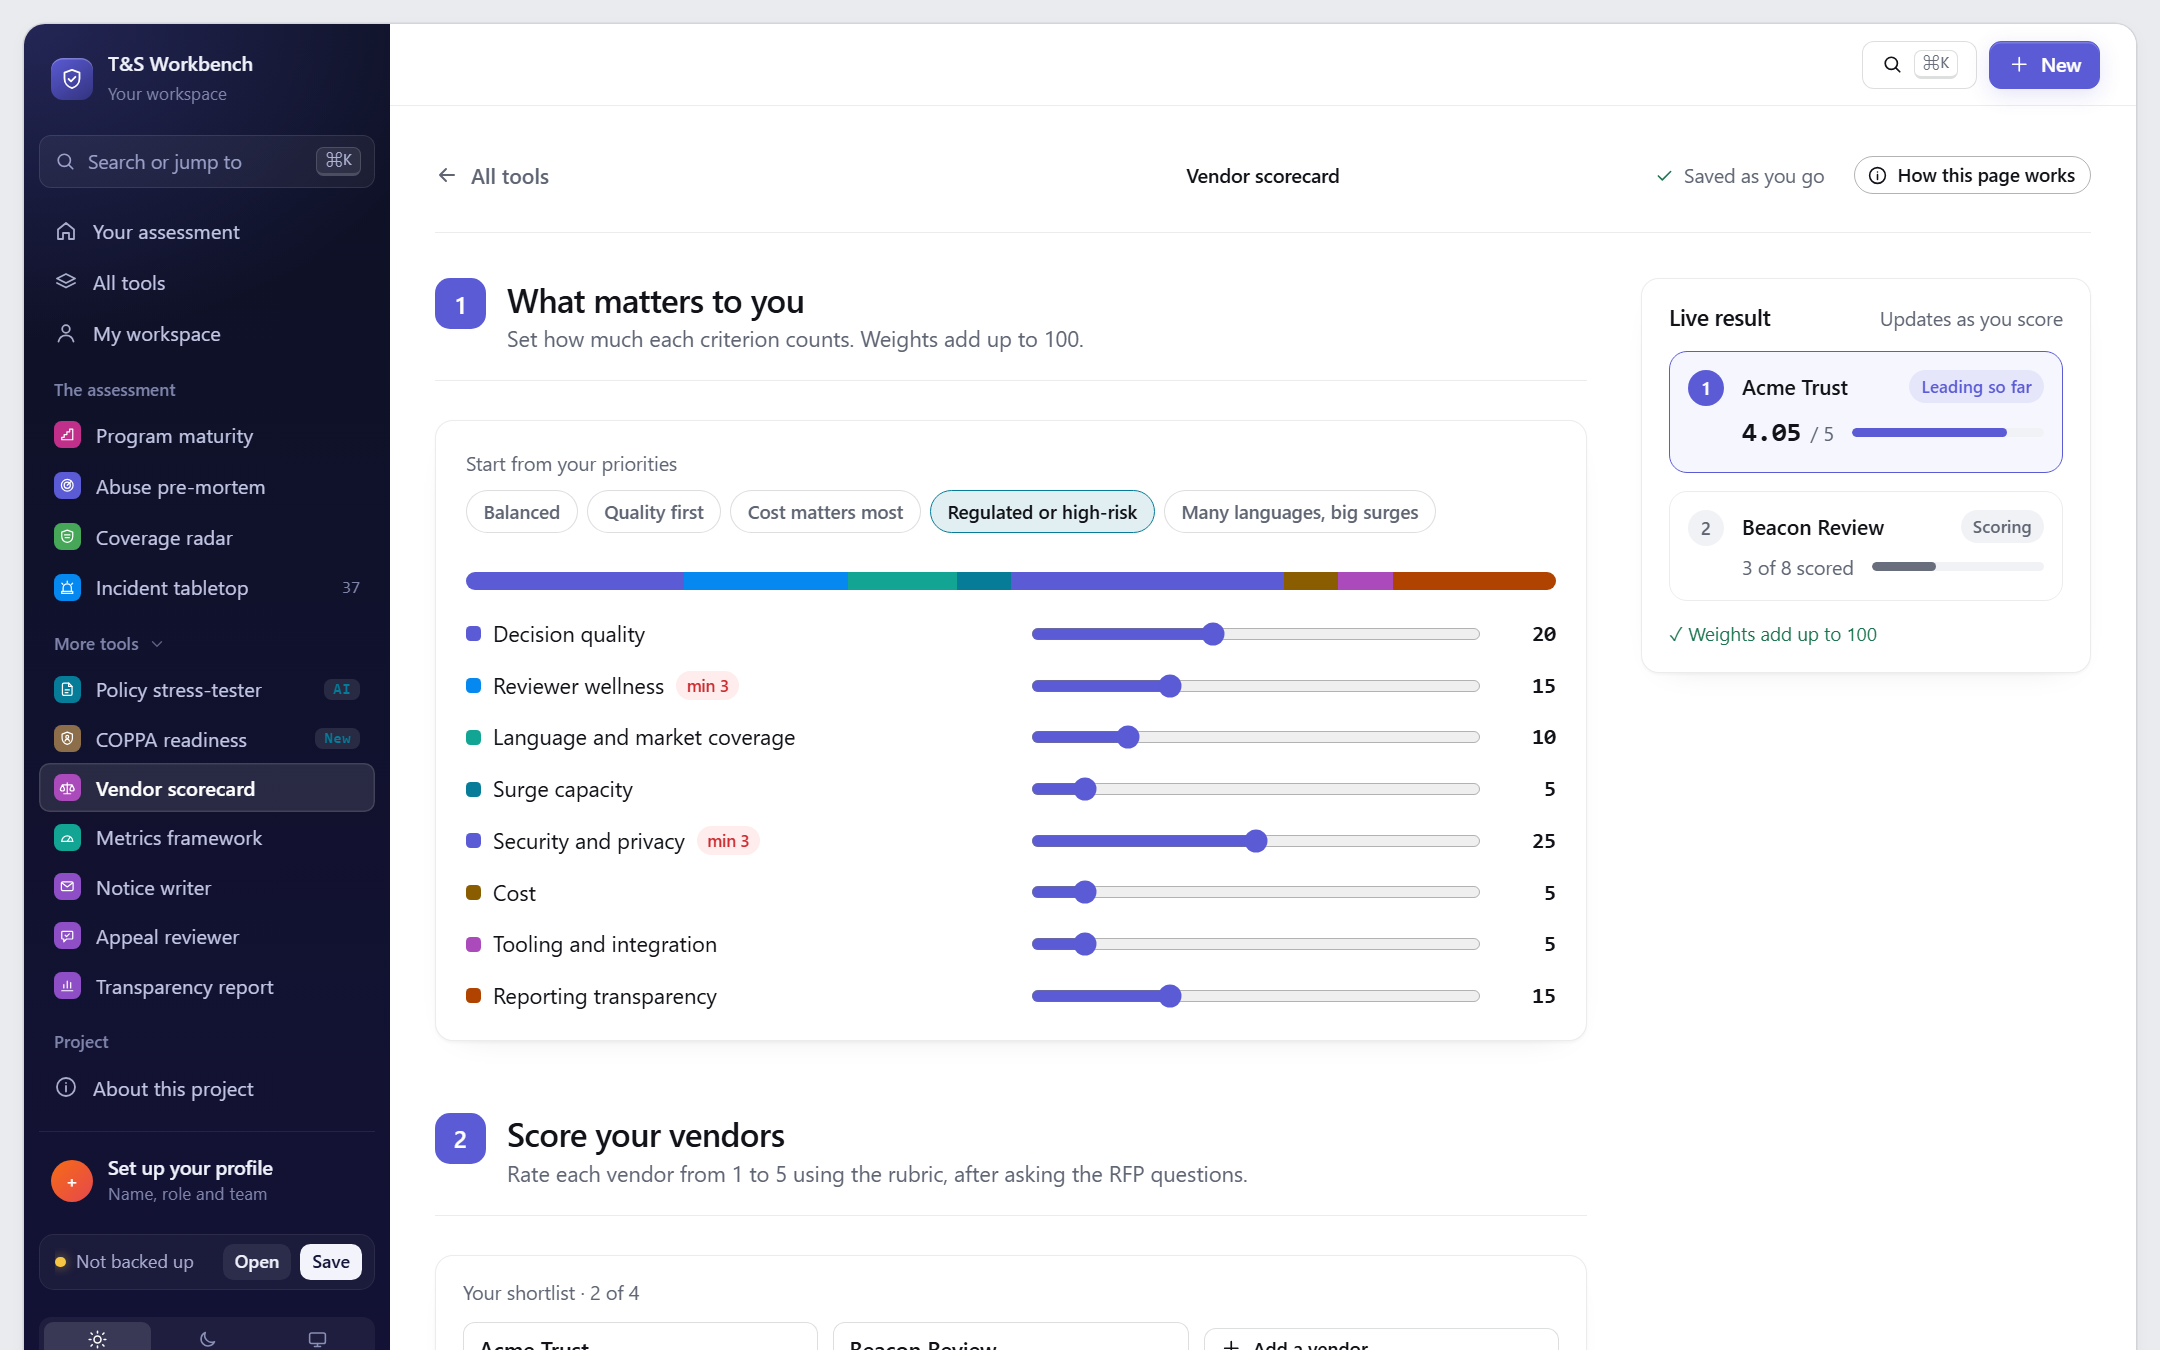
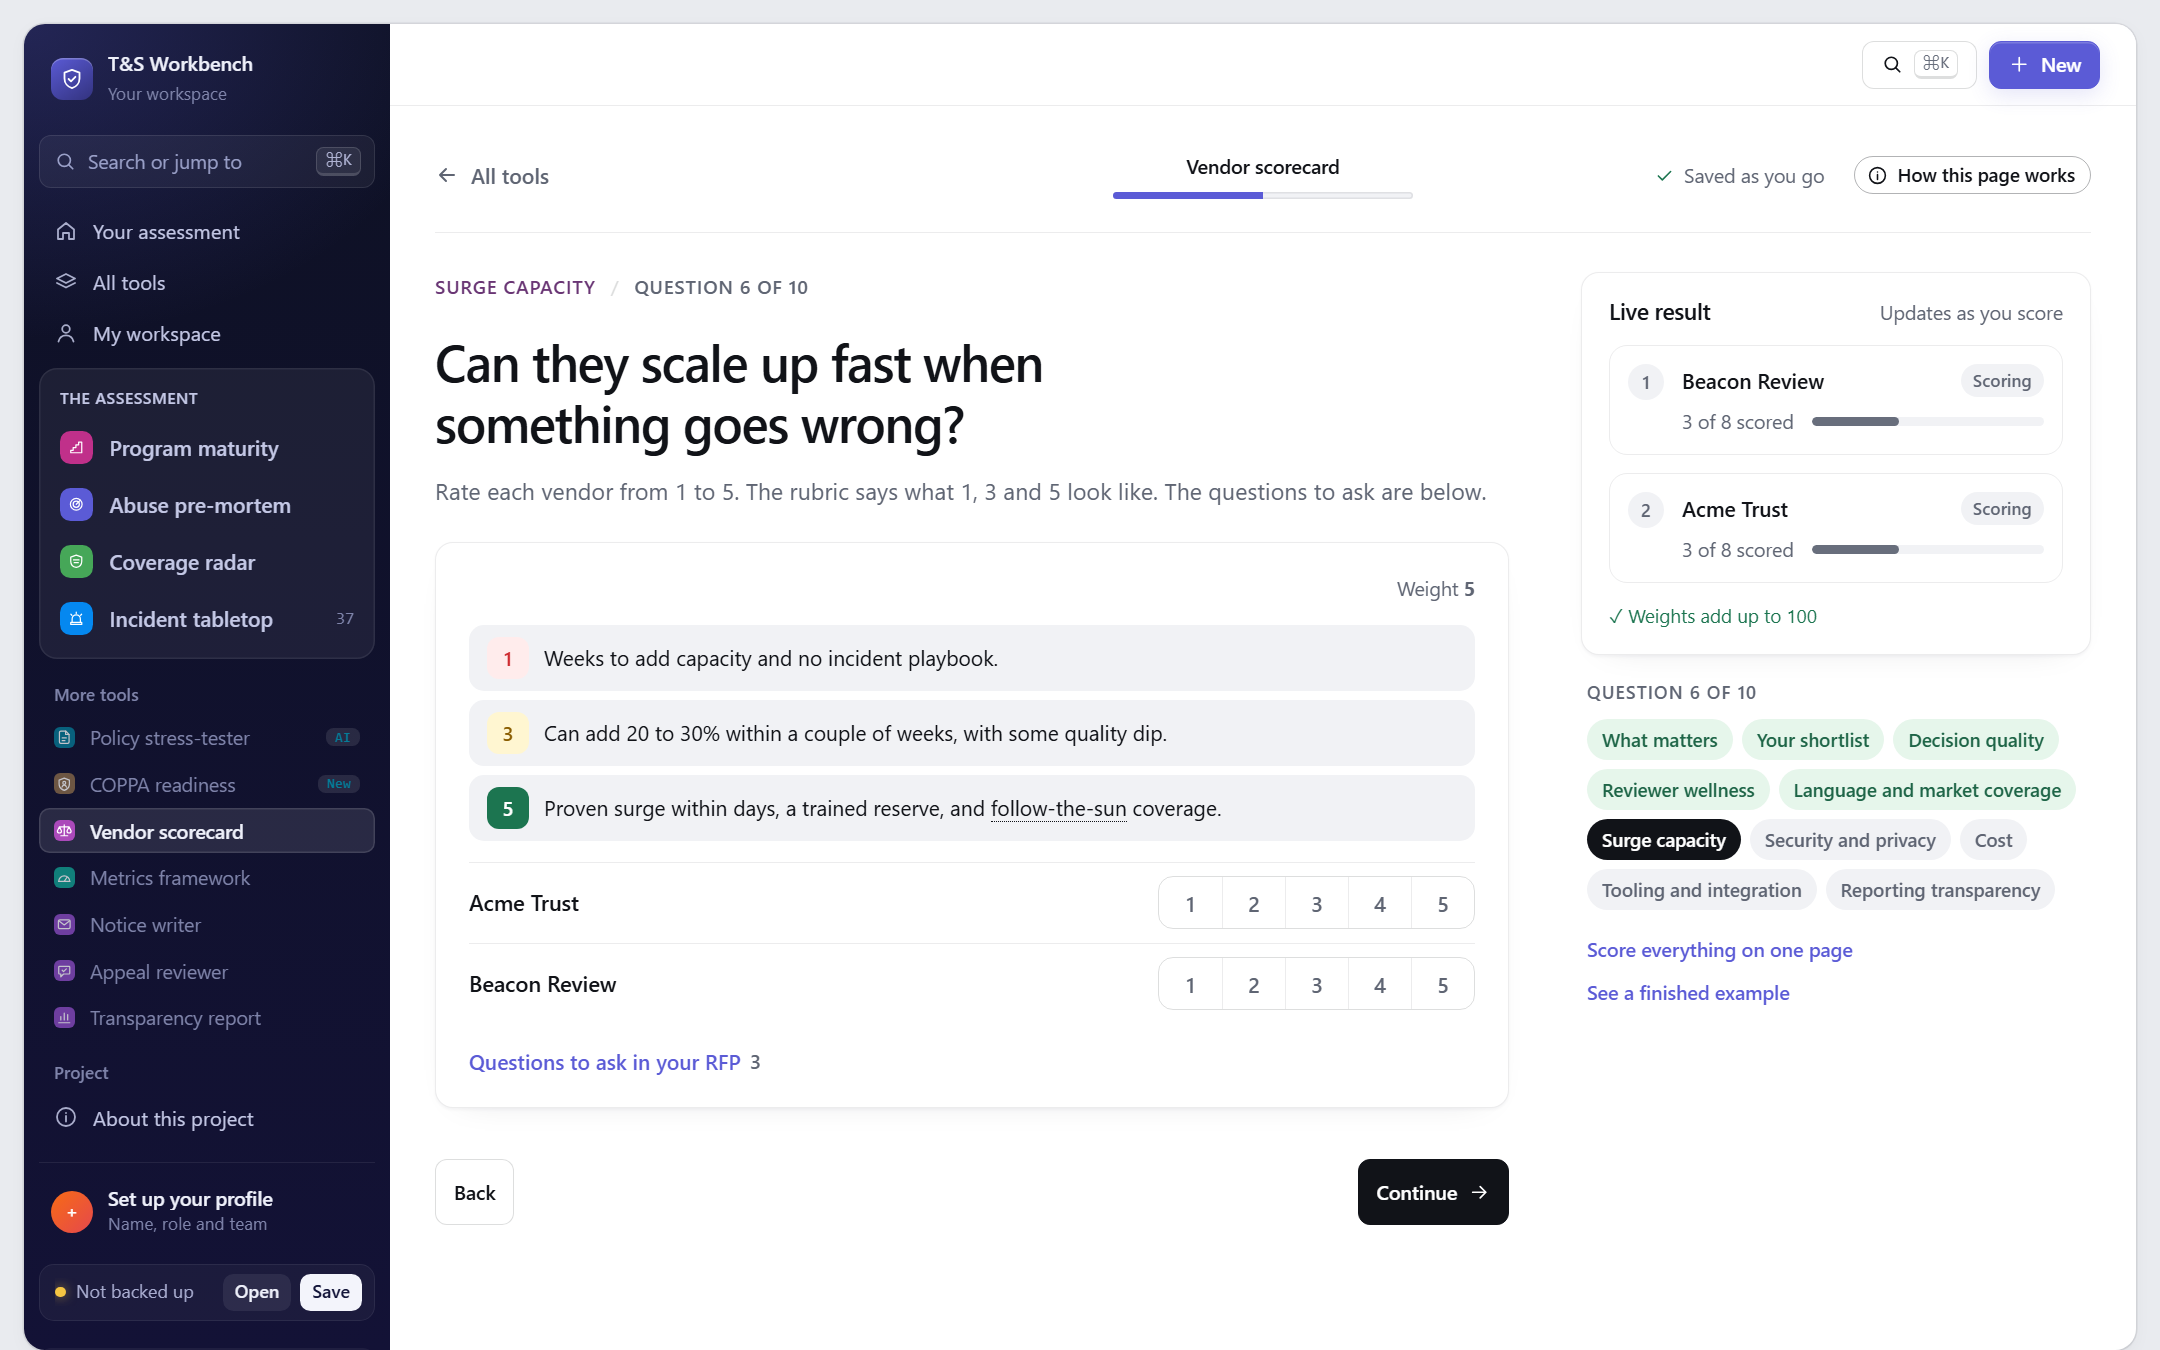
Screenshots and copy for the guided tools, the adaptive assessment and the plan

diff --git a/README.md b/README.md
@@ -14,8 +14,8 @@ Moderation vendors are often chosen on price and a polished demo. Reviewer welln
 
 ## How it works
 
-1. **Set what matters.** Weight eight criteria to add up to 100.
-2. **Score your shortlist.** Rate each vendor 1 to 5 against a rubric, after asking the RFP questions.
+1. **Set what matters.** Start from a preset (balanced, quality first, cost, regulated, many languages) or weight eight criteria to add up to 100.
+2. **Score your shortlist.** One criterion per screen: rate each vendor 1 to 5 against a rubric, with the RFP questions to ask and the ranking filling in beside you. Or score everything on one page.
 3. **Read the result.** A live ranking, why the winner won, and a heat map of strengths and gaps.
 
 ## What's in this repo
